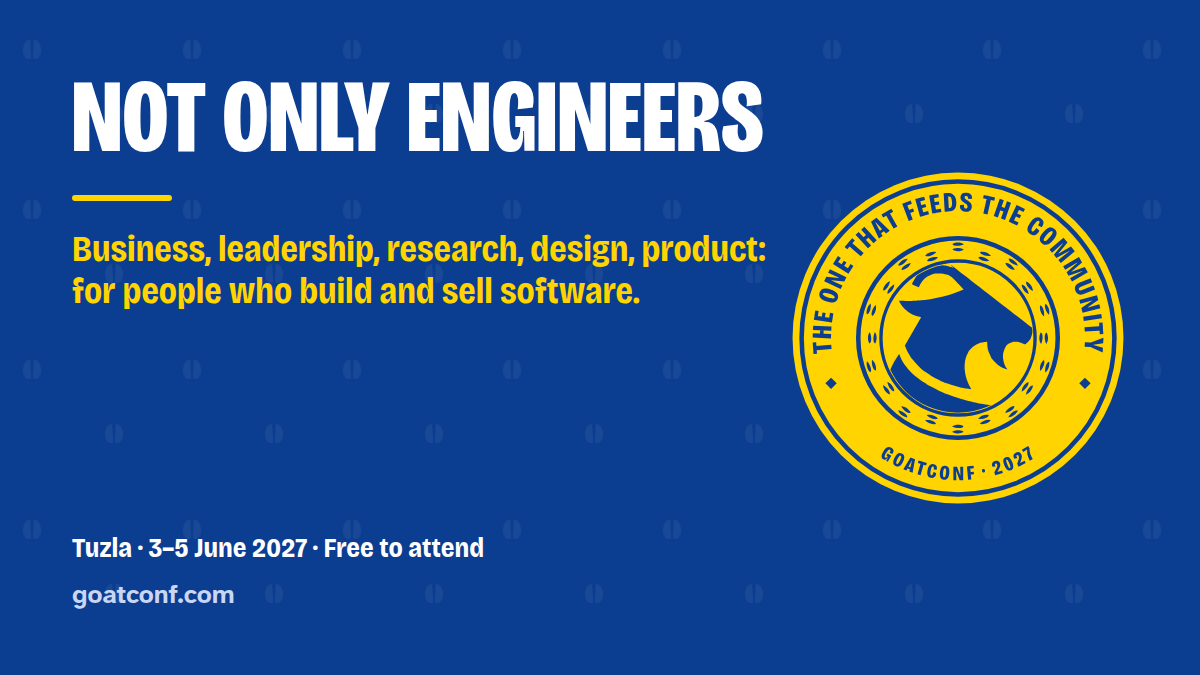
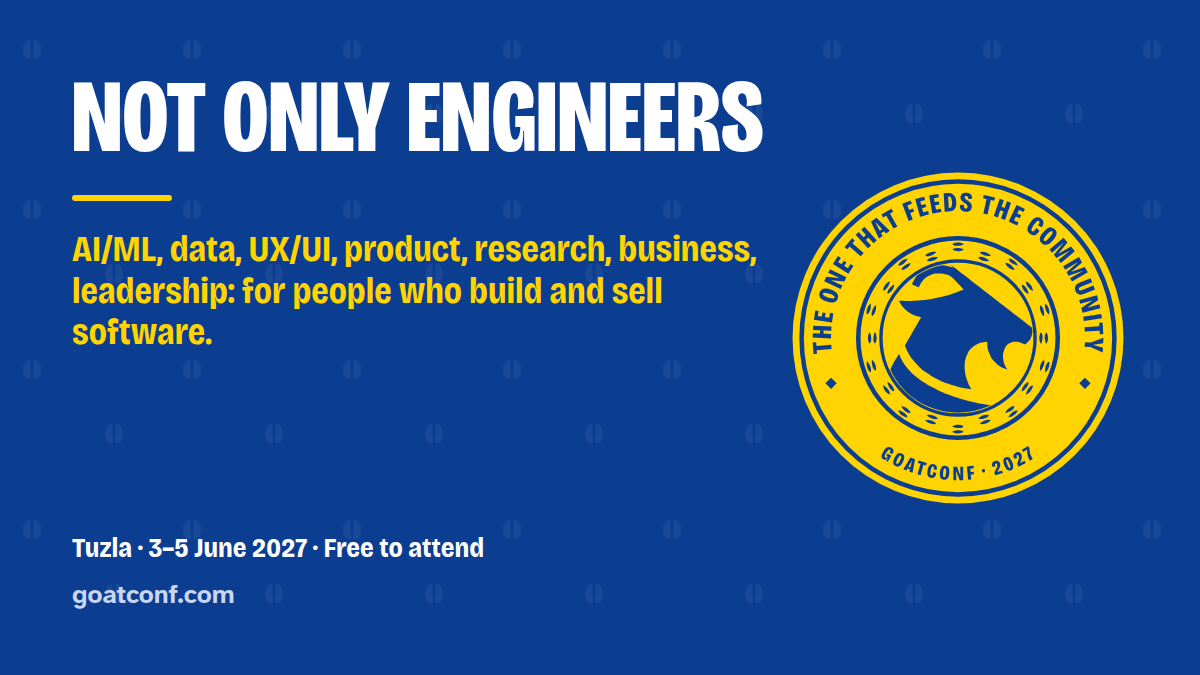
site: eight session areas, with AI/ML, Data, UX/UI, Product and Leadership

Changed region(s): [[0.0617, 0.3422, 0.6475, 0.5289]]

diff --git a/files/site/talk.html b/files/site/talk.html
@@ -78,12 +78,15 @@ Thursday 3rd June 2027: 10:00, 12:00, 14:00 or 16:00.<br>Friday 4th June 2027: 0
 <p>People with something worth an hour, from their own work or research. GoatConf is a technical conference for people who build and sell software, and every session is for them. A session can be about any part of that work:</p>
 <ul>
 <li><strong>Engineering,</strong> in any programming language or stack.</li>
-<li><strong>Design and product.</strong></li>
+<li><strong>AI/ML:</strong> models, LLMs and agents, and machine learning in production.</li>
+<li><strong>Data:</strong> pipelines, analytics and data platforms, from the first query to production.</li>
+<li><strong>UX/UI:</strong> designing software people understand, trust and like to use.</li>
+<li><strong>Product:</strong> finding what to build, shaping it and shipping it.</li>
 <li><strong>Research,</strong> from a university, a lab or a company, on how software is built, run or used.</li>
 <li><strong>The business of software:</strong> founding a company, first customers, pricing, selling, hiring, funding or bootstrapping.</li>
-<li><strong>The people side of the work:</strong> leading teams, careers, communication, working with clients.</li>
+<li><strong>Leadership:</strong> leading teams and companies, growing people, working with clients.</li>
 </ul>
-<p>You do not need to write code to speak here, but the room is technical: a business, people or research session is for people who build software, and speaks to them as such.</p>
+<p>You do not need to write code to speak here, but the room is technical: a business, leadership or research session is for people who build software, and speaks to them as such.</p>
 <p>What matters is that people leave with something they can use or build on: a story from your own work, a way to think through a problem, or advice. Honest lessons are welcome, including what did not work. A pitch for your product or company does not fit, and neither does motivation with nothing to take home.</p>
 <p>First-time speakers are welcome. A strong idea counts for more than a famous name.</p>
 <h2>How a session is picked</h2>

diff --git a/files/site/index.html b/files/site/index.html
@@ -158,7 +158,7 @@
   <div class="page-grid">
     <div class="copy">
       <p>The call is open, with no strict deadline, and it is for more than talks. Every slot is one hour, and you choose what happens in it: a talk, a panel, a workshop, or something else, like live coding, a hands-on lab, a fireside chat or a debate. Half an hour is fine too: short sessions may be paired into one hour.</p>
-      <p>First-time speakers are welcome, from any part of building and selling software: engineering, design, product, research, the business of software, and the people side of the work. You do not need to write code to speak here, but the audience is technical. Bring something they can use or build on, from your own work, not a pitch.</p>
+      <p>First-time speakers are welcome, from any part of building and selling software: engineering, AI/ML, data, UX/UI, product, research, the business of software, and leadership. You do not need to write code to speak here, but the audience is technical. Bring something they can use or build on, from your own work, not a pitch.</p>
       <p>Sessions are picked for their quality, never for who is paying.</p>
     </div>
     <div class="howto">

diff --git a/files/tests/test_speakers.py b/files/tests/test_speakers.py
@@ -415,17 +415,17 @@ def test_area_format_and_who_it_is_for_are_checked(tmp_path, monkeypatch):
 
 def test_a_scheduled_session_carries_its_area_and_who_it_is_for(tmp_path, monkeypatch):
     program, speakers = setup(tmp_path, monkeypatch)
-    (tmp_path / "program" / "s.md").write_text(SESSION.replace("accepted: yes", "accepted: yes\narea: people\nfor: anyone leading a team of five or more"), encoding="utf-8")
+    (tmp_path / "program" / "s.md").write_text(SESSION.replace("accepted: yes", "accepted: yes\narea: leadership\nfor: anyone leading a team of five or more"), encoding="utf-8")
     assert speakers.cmd_check(Args()) == 0
     table, _ = program.sessions()
     (key, (meta, body)), = table.items()
     session = program.session_page(key, meta, body)
-    assert "<dt>Area</dt><dd>People side of the work</dd>" in session and "<dt>For</dt><dd>anyone leading a team of five or more</dd>" in session
-    assert '<span class="tag tag--area">People side of the work</span>' in program.cell(1, (meta, body), key[2])
+    assert "<dt>Area</dt><dd>Leadership</dd>" in session and "<dt>For</dt><dd>anyone leading a team of five or more</dd>" in session
+    assert '<span class="tag tag--area">Leadership</span>' in program.cell(1, (meta, body), key[2])
     detail = speakers.sessions_by_speaker(detail=True)["ana-example"]
     page = speakers.speaker_page("ana-example", *speakers.speakers()["ana-example"], detail, speakers.supporters())
     assert '<p class="for-line"><b>For:</b> anyone leading a team of five or more</p>' in page
-    assert '<span class="tag tag--area">People side of the work</span>' in speakers.speakers_page()
+    assert '<span class="tag tag--area">Leadership</span>' in speakers.speakers_page()
     (tmp_path / "program" / "s.md").write_text(SESSION.replace("accepted: yes", "accepted: yes\narea: sales"), encoding="utf-8")
     problems, _, _ = program.check_record(tmp_path / "program" / "s.md")
     assert any("area must be one of" in p for p in problems)

diff --git a/files/tools/shareables.py b/files/tools/shareables.py
@@ -125,7 +125,7 @@ POSTS = {
     "your-first-talk": ("Your<br>first talk?", "First-time speakers are welcome. A strong idea counts for more than a famous name."),
     "see-you-in-june": ("See you<br>in June", "Two days of talks in Tuzla, then a day for the community."),
     "whos-organising": ("Who's<br>organising", "The organiser of EuRuKo 2024 and RubyConf Austria."),
-    "not-only-engineers": ("Not only<br>engineers", "Business, leadership, research, design, product: for people who build and sell software."),
+    "not-only-engineers": ("Not only<br>engineers", "AI/ML, data, UX/UI, product, research, business, leadership: for people who build and sell software."),
     "support-goatconf": ("Support<br>GoatConf", "One level, 500 euro, online only. Nothing at the venue."),
     "panels-and-workshops": ("Panels and<br>workshops", "Two computer centres, with 20 and 26 seats, for hands-on sessions."),
     "with-or-without-meat": ("With or<br>without<br>meat", "Ask for posno: made without meat."),

diff --git a/files/tools/program.py b/files/tools/program.py
@@ -85,9 +85,10 @@ RESERVED = (
 )
 FORMATS = {"talk": "Talk", "panel": "Panel", "workshop": "Workshop", "other": "Session"}
 # The areas the talk page names, as the proposal form's discipline question
-# offers them (sources/conversations/2026-10-19--org--business-and-people-sessions.md).
-AREAS = {"engineering": "Engineering", "design-product": "Design and product", "research": "Research",
-         "business": "Business of software", "people": "People side of the work"}
+# offers them (sources/conversations/2026-10-19--org--more-areas.md). They are
+# meant to group into a few tracks later, if more venues join.
+AREAS = {"engineering": "Engineering", "ai-ml": "AI/ML", "data": "Data", "ux-ui": "UX/UI", "product": "Product",
+         "research": "Research", "business": "Business of software", "leadership": "Leadership"}
 FOR_CHARS = 100
 FIELDS = ("title", "speakers", "format", "day", "start", "room", "accepted")
 

diff --git a/files/wiki/index.md b/files/wiki/index.md
@@ -18,6 +18,7 @@ what is proposed is on the [pitches hub](org/pitches/index.md).
 ## What changed
 
 <!-- home-section: filled; maintained-by: /shape; updated: 2026-10-19 -->
+- **2026-10-19**: **Eight areas.** Sessions now take one of eight areas, borrowed in part from Compass AI Tech Summit: Engineering, AI/ML, Data, UX/UI, Product, Research, Business of software and Leadership. The talk page lists them with a line each; the home page, the "Not only engineers" card, the record templates and the two drafted posts about the call follow. The areas should later group into a few program tracks, at most IPI Academy plus two more single-track venues: the organiser may explore Tuzla Public Theatre and the Croatian Cultural Centre "Sveti Franjo", neither secured; no grouping is decided (source: sources/conversations/2026-10-19--org--more-areas.md).
 - **2026-10-19**: **One speaker card.** The home page's "Who is speaking" now shows the speakers page's own card, built by the same code: name in the band, then role, talk, area tag and "For:" line. The home page's separate sticker and its CSS are gone; the home page keeps its album numbers and "Your session here?" places (source: sources/conversations/2026-10-19--org--one-speaker-card.md).
 - **2026-10-19**: **Each session shows its area and who it is for.** Speaker and program records take an area (engineering, design and product, research, the business of software, the people side of the work) and a "for" line, the speaker's answer to the form's "Who is it for?" lightly trimmed; the speaker pages, the speakers list, the program and the session pages show them as a tag and a "For:" line, and `program.json` carries them. Dejan Menges's and Christoph Lipautz's talks have both (source: sources/conversations/2026-10-19--org--session-flavors.md).
 - **2026-10-19**: **Business, people and research sessions are welcome, for a technical room.** The talk page now names research, the business of software and the people side of the work next to engineering, design and product, says no code is needed to speak but the room is technical, and asks for something people can use or build on, not a pitch; the home page, the "Not only engineers" card and the two drafted posts about the call say the same ([drumbeat 2026](org/outreach/drumbeat-2026.md), [drumbeat 2027](org/outreach/drumbeat-2027-jan-mar.md); source: sources/conversations/2026-10-19--org--business-and-people-sessions.md).

diff --git a/files/wiki/org/outreach/drumbeat-2026.md b/files/wiki/org/outreach/drumbeat-2026.md
@@ -7,6 +7,7 @@ confidence: medium
 affects:
   - org
 sources:
+  - sources/conversations/2026-10-19--org--more-areas.md
   - sources/conversations/2026-10-19--org--business-and-people-sessions.md
   - sources/conversations/2026-10-18--org--social-plan-to-june.md
   - sources/conversations/2026-10-15--org--drafting-the-first-posts.md
@@ -79,7 +80,7 @@ The posts in the order they go out. The calendar, the rules and what to do when 
   >
   > Every slot is one hour, in one of the seven rooms at IPI Academy in Tuzla, on Thursday 3 or Friday 4 June 2027. You choose what happens in it: a talk, a panel, a workshop, or something else, like live coding, a hands-on lab, a fireside chat or a debate.
   >
-  > Engineering in any language or stack, design, product, research, the business of software and the people side of the work: all welcome, and first-time speakers too. You do not need to write code to speak; bring something the technical people in the room can use or build on. The organiser reads every proposal, the session first and your name after, and you hear back whatever the answer.
+  > Engineering in any language or stack, AI/ML, data, UX/UI, product, research, the business of software and leadership: all welcome, and first-time speakers too. You do not need to write code to speak; bring something the technical people in the room can use or build on. The organiser reads every proposal, the session first and your name after, and you hear back whatever the answer.
   >
   > Propose a session in about fifteen minutes: goatconf.com/talk
 
@@ -87,7 +88,7 @@ The posts in the order they go out. The calendar, the rules and what to do when 
 
   > The GoatConf 2027 call is open, and it's for more than talks: a talk, a panel, a workshop or something else. One hour, one room, Tuzla, 3 or 4 June. First-time speakers welcome. goatconf.com/talk
 
-  Sources: sources/conversations/2026-10-18--org--run-a-session.md, sources/conversations/2026-10-12--org--organiser-judges-no-strict-deadlines.md, sources/conversations/2026-10-12--org--all-available-rooms.md.
+  Sources: sources/conversations/2026-10-18--org--run-a-session.md, sources/conversations/2026-10-12--org--organiser-judges-no-strict-deadlines.md, sources/conversations/2026-10-12--org--all-available-rooms.md, sources/conversations/2026-10-19--org--more-areas.md.
 
 ### Tue 27 Oct 2026, week 3: Registration is open, and free
 

diff --git a/files/wiki/org/outreach/drumbeat-2027-jan-mar.md b/files/wiki/org/outreach/drumbeat-2027-jan-mar.md
@@ -7,6 +7,7 @@ confidence: medium
 affects:
   - org
 sources:
+  - sources/conversations/2026-10-19--org--more-areas.md
   - sources/conversations/2026-10-19--org--business-and-people-sessions.md
   - sources/conversations/2026-10-18--org--social-plan-to-june.md
   - sources/conversations/2026-10-15--org--drafting-the-first-posts.md
@@ -145,7 +146,7 @@ The posts in the order they go out. The calendar, the rules and what to do when 
   >
   > Designers, product people, founders and engineers in any language or stack: the sessions are for all of you, and so is the hour off after each one, on Freedom Square, where the conversations happen.
   >
-  > If you work on product, design, research, running a company or leading people, the call is open to you too, and you do not need to write code to speak: a talk, a panel, a workshop or something else, one hour, in Tuzla on 3 or 4 June. Bring something the technical people in the room can use or build on, from your own work.
+  > If you work in AI/ML, data, UX/UI, product, research, running a company or leading teams, the call is open to you too, and you do not need to write code to speak: a talk, a panel, a workshop or something else, one hour, in Tuzla on 3 or 4 June. Bring something the technical people in the room can use or build on, from your own work.
   >
   > goatconf.com/talk
 
@@ -153,7 +154,7 @@ The posts in the order they go out. The calendar, the rules and what to do when 
 
   > GoatConf is for people who build and sell software: designers, product people, founders and engineers in any stack. The call is open to all of you. Tuzla, 3 to 5 June. goatconf.com/talk
 
-  Sources: sources/conversations/2026-10-12--org--build-and-sell.md, sources/conversations/2026-10-12--org--audience-list.md, sources/conversations/2026-10-12--org--what-goatconf-is.md.
+  Sources: sources/conversations/2026-10-12--org--build-and-sell.md, sources/conversations/2026-10-12--org--audience-list.md, sources/conversations/2026-10-12--org--what-goatconf-is.md, sources/conversations/2026-10-19--org--more-areas.md.
 
 ### Tue 9 Feb 2027, week 18: Getting to Tuzla
 

diff --git a/files/sources/conversations/2026-10-19--org--more-areas.md b/files/sources/conversations/2026-10-19--org--more-areas.md
@@ -1,0 +1,44 @@
+---
+title: "Eight areas, borrowed from Compass AI Tech Summit, and two venues to explore"
+date: 2026-10-19
+kind: conversation
+---
+
+After sessions got an area tag (engineering, design and product,
+research, the business of software, the people side of the work), the
+organiser wrote, verbatim:
+
+> Let's also borrow from https://compassaitechsummit.com/ and have more topics we support, like AI/ML, UX/UI and Data
+
+The Compass AI Tech Summit home page, read on 2026-10-19, lists five
+topics as tags on its hero and speaker cards, each with one line: Data,
+Leadership, Product, AI/ML and UX/UI.
+
+Offered three sets, the organiser picked eight areas with Leadership:
+Engineering, AI/ML, Data, UX/UI, Product, Research, Business of software
+and Leadership. "Design and product" splits into UX/UI and Product, and
+"the people side of the work" becomes Leadership, as Compass names it.
+Not picked: keeping the people side of the work (which also covered
+careers and communication), and a seven-area set with "UX/UI and
+product" as one area.
+
+They added, verbatim:
+
+> But also have in mind that we need to group stuff for the program. Maximum I could think of planning for GoatConf is getting two more single track venues to also split topics and sessions.
+
+So the areas should group into a few tracks for the program, at most IPI
+Academy plus two more single-track venues. No grouping was decided.
+
+Then, verbatim:
+
+> These are the other two venues: https://maps.app.goo.gl/4i6512pQyDX8hBUa7?g_st=ac and https://maps.app.goo.gl/PwiQhrE2oQ9EWMqH9
+>
+> I still don't have them, but was thinking to explore potentially
+
+The two links resolve, on 2026-10-19, to Google Maps places:
+
+- Tuzla Public Theatre, Pozorišna 4, Tuzla 75000.
+- Hrvatski kulturni centar "Sveti Franjo" Tuzla (the Croatian Cultural
+  Centre "Saint Francis"), Stari grad, Tuzla 75000.
+
+Neither is secured; the organiser may explore them.

diff --git a/files/wiki/org/goatconf-2027.md b/files/wiki/org/goatconf-2027.md
@@ -5,6 +5,7 @@ status: living
 updated: 2026-10-19
 confidence: medium
 sources:
+  - sources/conversations/2026-10-19--org--more-areas.md
   - sources/conversations/2026-10-19--org--site-review-decisions.md
   - sources/cfp/2026-10-17--dejan-menges--teaching-twenty-languages.md
   - sources/cfp/2026-10-15--christoph-lipautz--back-to-the-future.md
@@ -73,6 +74,11 @@ is cited to the sources above; nothing is inferred. Proposals live in the
 - **Place:** Tuzla, Bosnia and Herzegovina.
 - **Host and partner:** [IPI Academy](ipi-academy.md), which has agreed;
   it is the venue "for now". Further venues are possible and undecided.
+  The organiser may explore two single-track venues, neither secured:
+  Tuzla Public Theatre (Pozorišna 4) and the Croatian Cultural Centre
+  "Sveti Franjo" in the old town, so the program could split its
+  sessions by area across them
+  (`sources/conversations/2026-10-19--org--more-areas.md`).
 - **When:** Thursday 3 and Friday 4 June 2027 are the two core days, and
   Saturday 5 June is free for the community and the lakes
   (`sources/conversations/2026-10-12--org--two-core-days-and-saturday.md`,

diff --git a/files/tools/google-forms/README.md b/files/tools/google-forms/README.md
@@ -21,8 +21,8 @@ Collects the respondent's email, sends them a copy of their answers, emails
 the organiser on every response, and writes to the spreadsheet "GoatConf 2027
 responses". It asks, in this order (required unless marked optional): title;
 format (talk, panel, workshop, something else); what it is about; who it is
-for (optional); discipline (engineering, design and product, research, the business
-of software, the people side of the work, or other; changed 2026-10-19); preferred day (Thursday 3 June, Friday 4 June, either); the name
+for (optional); discipline (engineering, AI/ML, data, UX/UI, product, research, the business
+of software, leadership, or other; changed 2026-10-19); preferred day (Thursday 3 June, Friday 4 June, either); the name
 or names of everyone speaking; a link about you (optional); whether it is
 their first talk; their travel (optional): they need no travel support, their company
 covers it and is then listed on the site as a supporter, or they pay their

diff --git a/files/program/README.md b/files/program/README.md
@@ -19,9 +19,9 @@ record; the body is the speaker's own short description. Copy
 - `profiles`: optional, a list of speaker file names from `speakers/`
   (for example `[ada-lovelace]`); the program then links the names to
   their profiles.
-- `area`: optional, the session's area: `engineering`, `design-product`,
-  `research`, `business` (the business of software) or `people` (the
-  people side of the work), as the proposal form's discipline question
+- `area`: optional, the session's area: `engineering`, `ai-ml`, `data`,
+  `ux-ui`, `product`, `research`, `business` (the business of software) or
+  `leadership`, as the proposal form's discipline question
   gives it. It shows as a tag on the program, the session's page and the
   speaker's page and card.
 - `for`: optional, who the session is for: the speaker's answer to the
